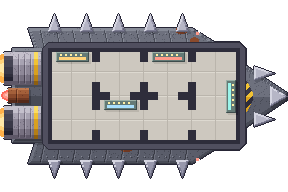
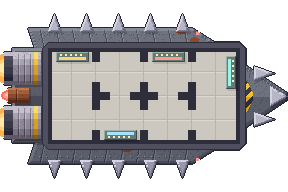
Consoles never sit in front of a door: art and game pick the same door-free wall
Claude-Session: https://claude.ai/code/session_013NFuzHRwfTbYkDqEBL2Kc9

Changed region(s): [[0.7812, 0.2812, 0.8438, 0.5938], [0.3438, 0.6562, 0.5, 0.75], [0.3438, 0.5, 0.5, 0.5938]]

diff --git a/tools/dev/ship_art/kit2x.py b/tools/dev/ship_art/kit2x.py
@@ -266,36 +266,68 @@ def interior(p, rooms, doors, cell=CELL, wall_mat="wall"):
             wall[y - t:y + t, x + g0:x + g1] = False
     wall &= p.tone >= 0
     p.mat[wall] = wall_mat; p.tone[wall] = 1
-    for rid, (cx, cy, cw, ch, sysname) in rooms.items():
-        machine(p, sysname, cx * cell, cy * cell, cw * cell, ch * cell, k)
+    for room in rooms.values():
+        machine(p, room, rooms, doors, cell, k)
     return p
 
 
 # Rooms where crew stand at a console and boost the system (Zachary, 21 Nov: "the rooms should just have consoles
 # the people can work at"): shields recharge faster, weapons arm faster, engines and the cockpit add evasion.
-# Other rooms are bare deck. Keep in step with ShipBattle._station_spot(): the cockpit's console is on the front
-# (right) wall at the room's middle; every other console is on the top wall of the room's first cell.
+# Other rooms are bare deck. A console sits on one cell's wall, never where a door is (Zachary: "you cant have a
+# console infront of a door"), and the crew member stands in the middle of that cell. Keep console_at() in step
+# with ShipBattle._console_at().
 STATION_SYSTEMS = ("pilot", "weapons", "shields", "engines")
 SCREEN_GLOW = {"pilot": "glow_teal", "weapons": "glow_red", "shields": "glow_blue", "engines": "glow"}
+SIDES = {"top": (0, -1), "bottom": (0, 1), "left": (-1, 0), "right": (1, 0)}
 
 
-def machine(p, sysname, x, y, w, h, k):
+def console_at(room, rooms, doors):
+    """(cell, side) for a room's console: the cockpit prefers its front (right) wall, the rest the top wall, then the
+    other walls; the first room cell, row by row, whose wall there is an outside wall with no door in it."""
+    cx, cy, cw, ch, sysname = room
+    order = ("right", "top", "bottom", "left") if sysname == "pilot" else ("top", "bottom", "left", "right")
+    mine = {(x, y) for x in range(cx, cx + cw) for y in range(cy, cy + ch)}
+    door_set = {frozenset((tuple(a), tuple(b))) for a, b in doors}
+    for side in order:
+        dx, dy = SIDES[side]
+        for y in range(cy, cy + ch):
+            for x in range(cx, cx + cw):
+                n = (x + dx, y + dy)
+                if n in mine or frozenset(((x, y), n)) in door_set:
+                    continue
+                return (x, y), side
+    return (cx, cy), "top"
+
+
+def machine(p, room, rooms, doors, cell, k):
+    sysname = room[4]
     if sysname not in STATION_SYSTEMS:
         return
     g = SCREEN_GLOW[sysname]
-    if sysname == "pilot":
-        cy = y + h // 2
-        x0, x1 = x + w - int(7 * k), x + w - int(2 * k) - 1
-        y0, y1 = cy - int(8 * k), cy + int(8 * k)
-        p.bevel(p.mask(rect=(x0, y0, x1, y1)), "console", width=1, face=3, shade_lower=False)
-        p.glow(p.mask(rect=(x0 + 2, y0 + 3, x0 + 4, y1 - 3)), g, 3)
-        for yy in range(y0 + 4, y1 - 3, 5):
-            p.glow(p.mask(rect=(x1 - 3, yy, x1 - 2, yy + 1)), "glow_yellow", 3)
+    (x, y), side = console_at(room, rooms, doors)
+    x, y = x * cell, y * cell
+    a, b = int(2 * k), int(7 * k) - 1           # from the wall: 2 to 7 cell px deep
+    lo, hi = int(4 * k), int(20 * k)            # along the wall: 4 to 20
+    if side == "top":
+        r = (x + lo, y + a, x + hi, y + b)
+    elif side == "bottom":
+        r = (x + lo, y + cell - 1 - b, x + hi, y + cell - 1 - a)
+    elif side == "left":
+        r = (x + a, y + lo, x + b, y + hi)
     else:
-        cx = x + int(12 * k)
-        x0, x1 = cx - int(8 * k), cx + int(8 * k)
-        y0, y1 = y + int(2 * k), y + int(7 * k) - 1
-        p.bevel(p.mask(rect=(x0, y0, x1, y1)), "console", width=1, face=3, shade_lower=False)
-        p.glow(p.mask(rect=(x0 + 3, y1 - 4, x1 - 3, y1 - 2)), g, 3)
+        r = (x + cell - 1 - b, y + lo, x + cell - 1 - a, y + hi)
+    x0, y0, x1, y1 = r
+    p.bevel(p.mask(rect=r), "console", width=1, face=3, shade_lower=False)
+    # the screen faces into the room; small lights along the back
+    if side in ("top", "bottom"):
+        sy = (y1 - 4) if side == "top" else (y0 + 2)
+        p.glow(p.mask(rect=(x0 + 3, sy, x1 - 3, sy + 2)), g, 3)
+        ly = y0 + 2 if side == "top" else y1 - 3
         for xx in range(x0 + 4, x1 - 3, 5):
-            p.glow(p.mask(rect=(xx, y0 + 2, xx + 1, y0 + 3)), "glow_yellow", 3)
+            p.glow(p.mask(rect=(xx, ly, xx + 1, ly + 1)), "glow_yellow", 3)
+    else:
+        sx = (x1 - 4) if side == "left" else (x0 + 2)
+        p.glow(p.mask(rect=(sx, y0 + 3, sx + 2, y1 - 3)), g, 3)
+        lx = x0 + 2 if side == "left" else x1 - 3
+        for yy in range(y0 + 4, y1 - 3, 5):
+            p.glow(p.mask(rect=(lx, yy, lx + 1, yy + 1)), "glow_yellow", 3)

diff --git a/docs/SHIP_ART_UI.md b/docs/SHIP_ART_UI.md
@@ -148,8 +148,9 @@ paths; ships with art are mirrored to face you. The **Rabble cutter** is the fir
 `ROOMS` and `DOORS` in `rabble_cutter_2x.py` must match `ShipData.ENEMIES["rabble_cutter"]`.
 Rooms hold **consoles, not furniture** (Zachary, 21 Nov): one console in each shields, weapons, engines and cockpit
 room, where crew stand on station and boost the system (shields recharge faster, weapons arm faster, engines and
-the cockpit add evasion). Oxygen and crew rooms are bare deck. The cockpit's console is on its front wall; the others
-are on the top wall of the room's first cell (`kit2x.machine()` and `ShipBattle._station_spot()` keep in step).
+the cockpit add evasion). Oxygen and crew rooms are bare deck. A console never sits where a door is: the cockpit's goes on its front wall,
+the others on a top wall, else bottom, left or right, in the first cell with a door-free outside wall there; crew stand
+in the middle of that cell (`kit2x.console_at()` and `ShipBattle._console_at()` keep in step).
 
 **For the rest:** each ship gets FTL-simple rooms and doors the same way, and the battle screen uses its
 `art_scale` (2 for these): the picture is fitted on its art pixels, while rooms, crew and the drone stay in 24-px cell
